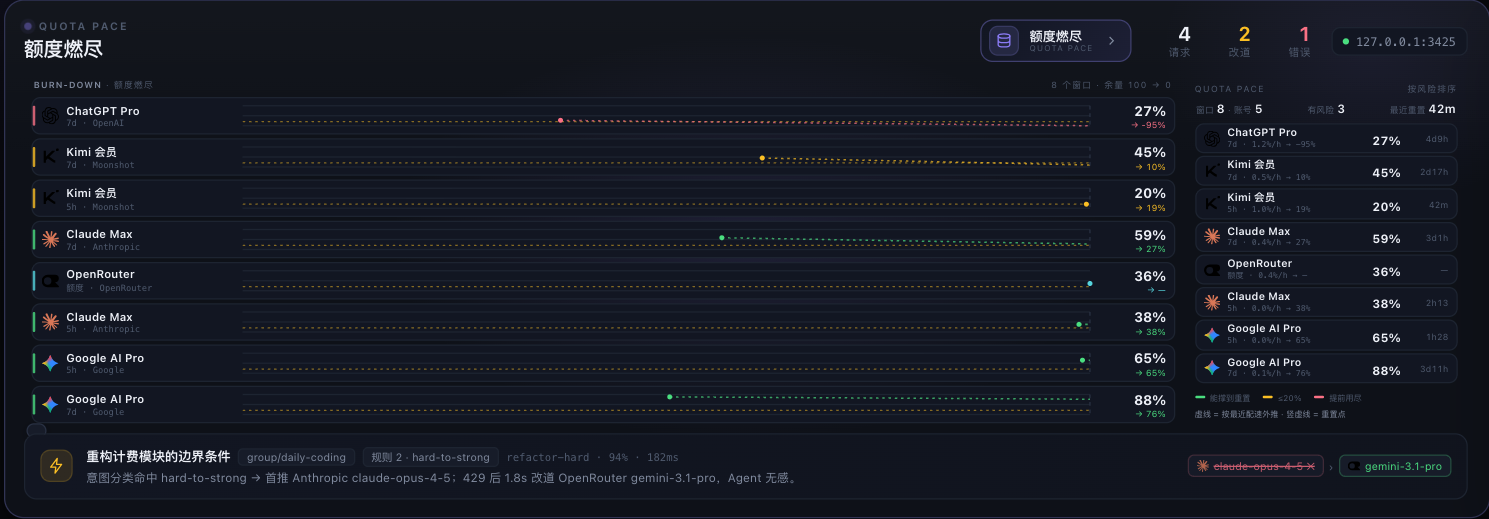
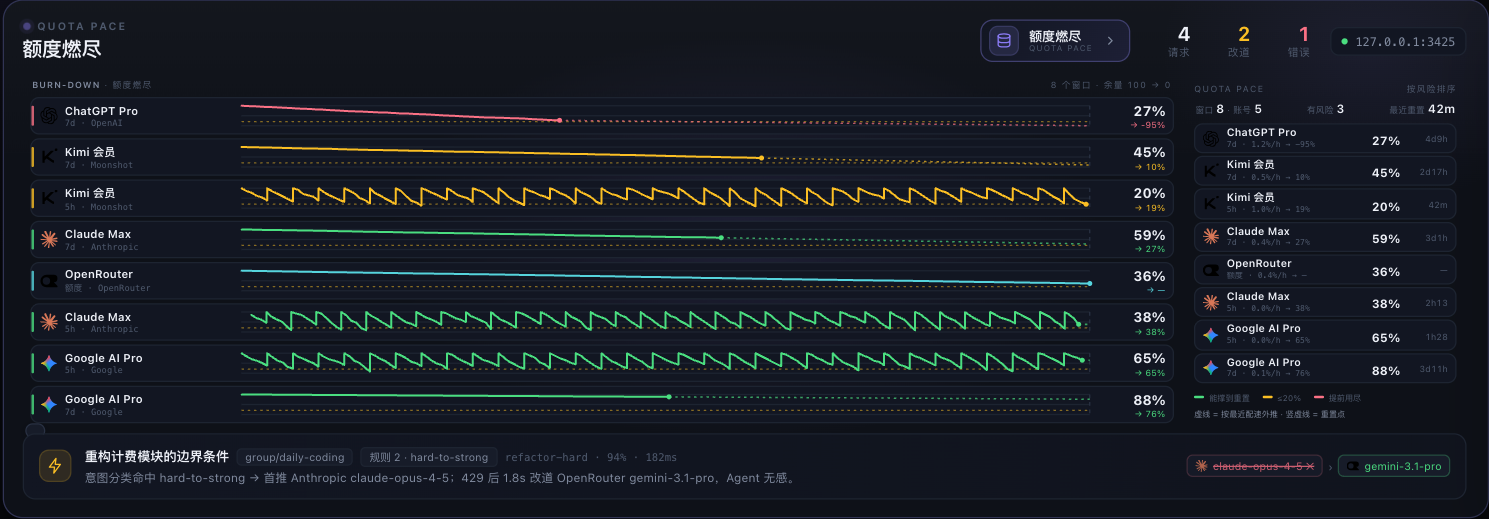
release: Magpie Observatory v0.14.1

diff --git a/public/assets/data.js b/public/assets/data.js
@@ -533,18 +533,32 @@
       heatmap = full;
     }
 
-    const q = quotas.map(x => ({
-      provider: providerOfModel("", x.provider),
-      name: x.name || x.provider,
-      user: x.user || "",
-      plan: x.plan || x.kind || "",
-      balance: x.balance || null,
-      windows: (x.windows || []).slice().sort((a, b) => (a.resetsAt || "").localeCompare(b.resetsAt || "")).slice(0, 2).map(w => ({
-        name: w.name || "额度",
-        used: w.used != null ? (w.used <= 1 ? w.used * 100 : w.used) : (w.remaining != null && w.limit ? (1 - w.remaining / w.limit) * 100 : 0),
-        resetsIn: w.resetsAt ? Math.max(0, Math.round((Date.parse(w.resetsAt) - now) / 60000)) : null
-      }))
-    })).filter(x => x.windows.length || x.balance);
+    const q = quotas.map(x => {
+      const rawWins = x.windows || [];
+      // Magpie normally reports used/remaining as 0–100. Only treat a whole
+      // account's windows as 0–1 fractions when every value is <=1 and a
+      // remaining value confirms the scale; a real 1% must stay 1%.
+      const asFraction = rawWins.length > 0 && rawWins.every(w => {
+        if (w.used == null) return true;
+        if (w.used > 1) return false;
+        if (w.remaining != null) return w.remaining <= 1;
+        return false;
+      });
+      return {
+        provider: providerOfModel("", x.provider),
+        name: x.name || x.provider,
+        user: x.user || "",
+        plan: x.plan || x.kind || "",
+        balance: x.balance || null,
+        windows: rawWins.slice().sort((a, b) => (a.resetsAt || "").localeCompare(b.resetsAt || "")).slice(0, 2).map(w => ({
+          name: w.name || "额度",
+          used: w.used != null
+            ? (asFraction ? w.used * 100 : w.used)
+            : (w.remaining != null && w.limit ? (1 - w.remaining / w.limit) * 100 : 0),
+          resetsIn: w.resetsAt ? Math.max(0, Math.round((Date.parse(w.resetsAt) - now) / 60000)) : null
+        }))
+      };
+    }).filter(x => x.windows.length || x.balance);
 
     // Burn-down history: the gateway keeps an `at/left/start/resetsAt` series
     // per account × window. Keep the tail of each series only.

diff --git a/public/index.html b/public/index.html
@@ -71,7 +71,7 @@
       <button class="nav-item" id="theme-toggle" title="明暗模式"><svg class="icon-moon"><use href="#i-moon"/></svg><svg class="icon-sun"><use href="#i-sun"/></svg><span>明暗</span></button>
       <button class="nav-item" id="style-toggle" title="界面风格"><svg><use href="#i-palette"/></svg><span>风格</span></button>
       <button class="nav-item" id="settings-toggle" title="布局与动效"><svg><use href="#i-settings"/></svg><span>设置</span></button>
-      <div class="rail-version">v0.14.0 <i></i> plugin</div>
+      <div class="rail-version">v0.14.1 <i></i> plugin</div>
     </div>
   </aside>
 

diff --git a/public/assets/app.js b/public/assets/app.js
@@ -2030,7 +2030,7 @@
 
   /* ------------------------------------------------------------------ init --- */
   function init() {
-    try { console.info("%c Magpie Observatory v0.14.0 · twenty-one views · 4 styles · layout settings", "color:#8b7cf6;font-weight:bold"); } catch (_) {}
+    try { console.info("%c Magpie Observatory v0.14.1 · twenty-one views · 4 styles · layout settings", "color:#8b7cf6;font-weight:bold"); } catch (_) {}
     try {
       const hostTheme = new URLSearchParams(location.search).get("hostTheme");
       if (hostTheme === "light" || hostTheme === "dark") {

diff --git a/docs/publishing.md b/docs/publishing.md
@@ -94,7 +94,7 @@ The script:
 2. initializes `main` if needed, commits the working tree;
 3. creates the public repository if it does not exist, otherwise pushes;
 4. adds all store topics with `gh repo edit --add-topic`;
-5. creates the annotated tag `v0.14.0` and pushes it.
+5. creates the annotated tag `v0.14.1` and pushes it.
 
 Manual equivalent:
 
@@ -103,7 +103,7 @@ git init -b main
 git config user.name "JohnWangggg"
 git config user.email "JohnWangggg@users.noreply.github.com"
 git add -A
-git commit -m "release: Magpie Observatory v0.14.0"
+git commit -m "release: Magpie Observatory v0.14.1"
 gh repo create JohnWangggg/magpie-observatory --public --source=. --remote=origin --push
 gh api --method PUT repos/JohnWangggg/magpie-observatory/topics \
   -f 'names[]=magpie-plugin' \
@@ -113,7 +113,7 @@ gh api --method PUT repos/JohnWangggg/magpie-observatory/topics \
   -f 'names[]=dashboard' \
   -f 'names[]=monitoring' \
   -f 'names[]=llm-gateway'
-git tag -a v0.14.0 -m "Magpie Observatory v0.14.0"
+git tag -a v0.14.1 -m "Magpie Observatory v0.14.1"
 git push -u origin main --tags
 ```
 
@@ -138,12 +138,12 @@ under **Plugins → Installed** with an **Observatory** tab.
 Release tags are annotated and match `package.json`:
 
 ```bash
-git tag -a v0.14.0 -m "Magpie Observatory v0.14.0"
-git push origin v0.14.0
+git tag -a v0.14.1 -m "Magpie Observatory v0.14.1"
+git push origin v0.14.1
 ```
 
 For the next release, bump `package.json`, update the tag in
-`scripts/publish-github.sh` (or pass `TAG=v0.14.0`), and repeat.
+`scripts/publish-github.sh` (or pass `TAG=v0.14.1`), and repeat.
 
 发布标签使用 annotated tag，并与 `package.json` 版本一致。下一次发布时提升版本号，
-再用 `TAG=v0.14.0 bash scripts/publish-github.sh` 或手动打标签。
+再用 `TAG=v0.14.1 bash scripts/publish-github.sh` 或手动打标签。
